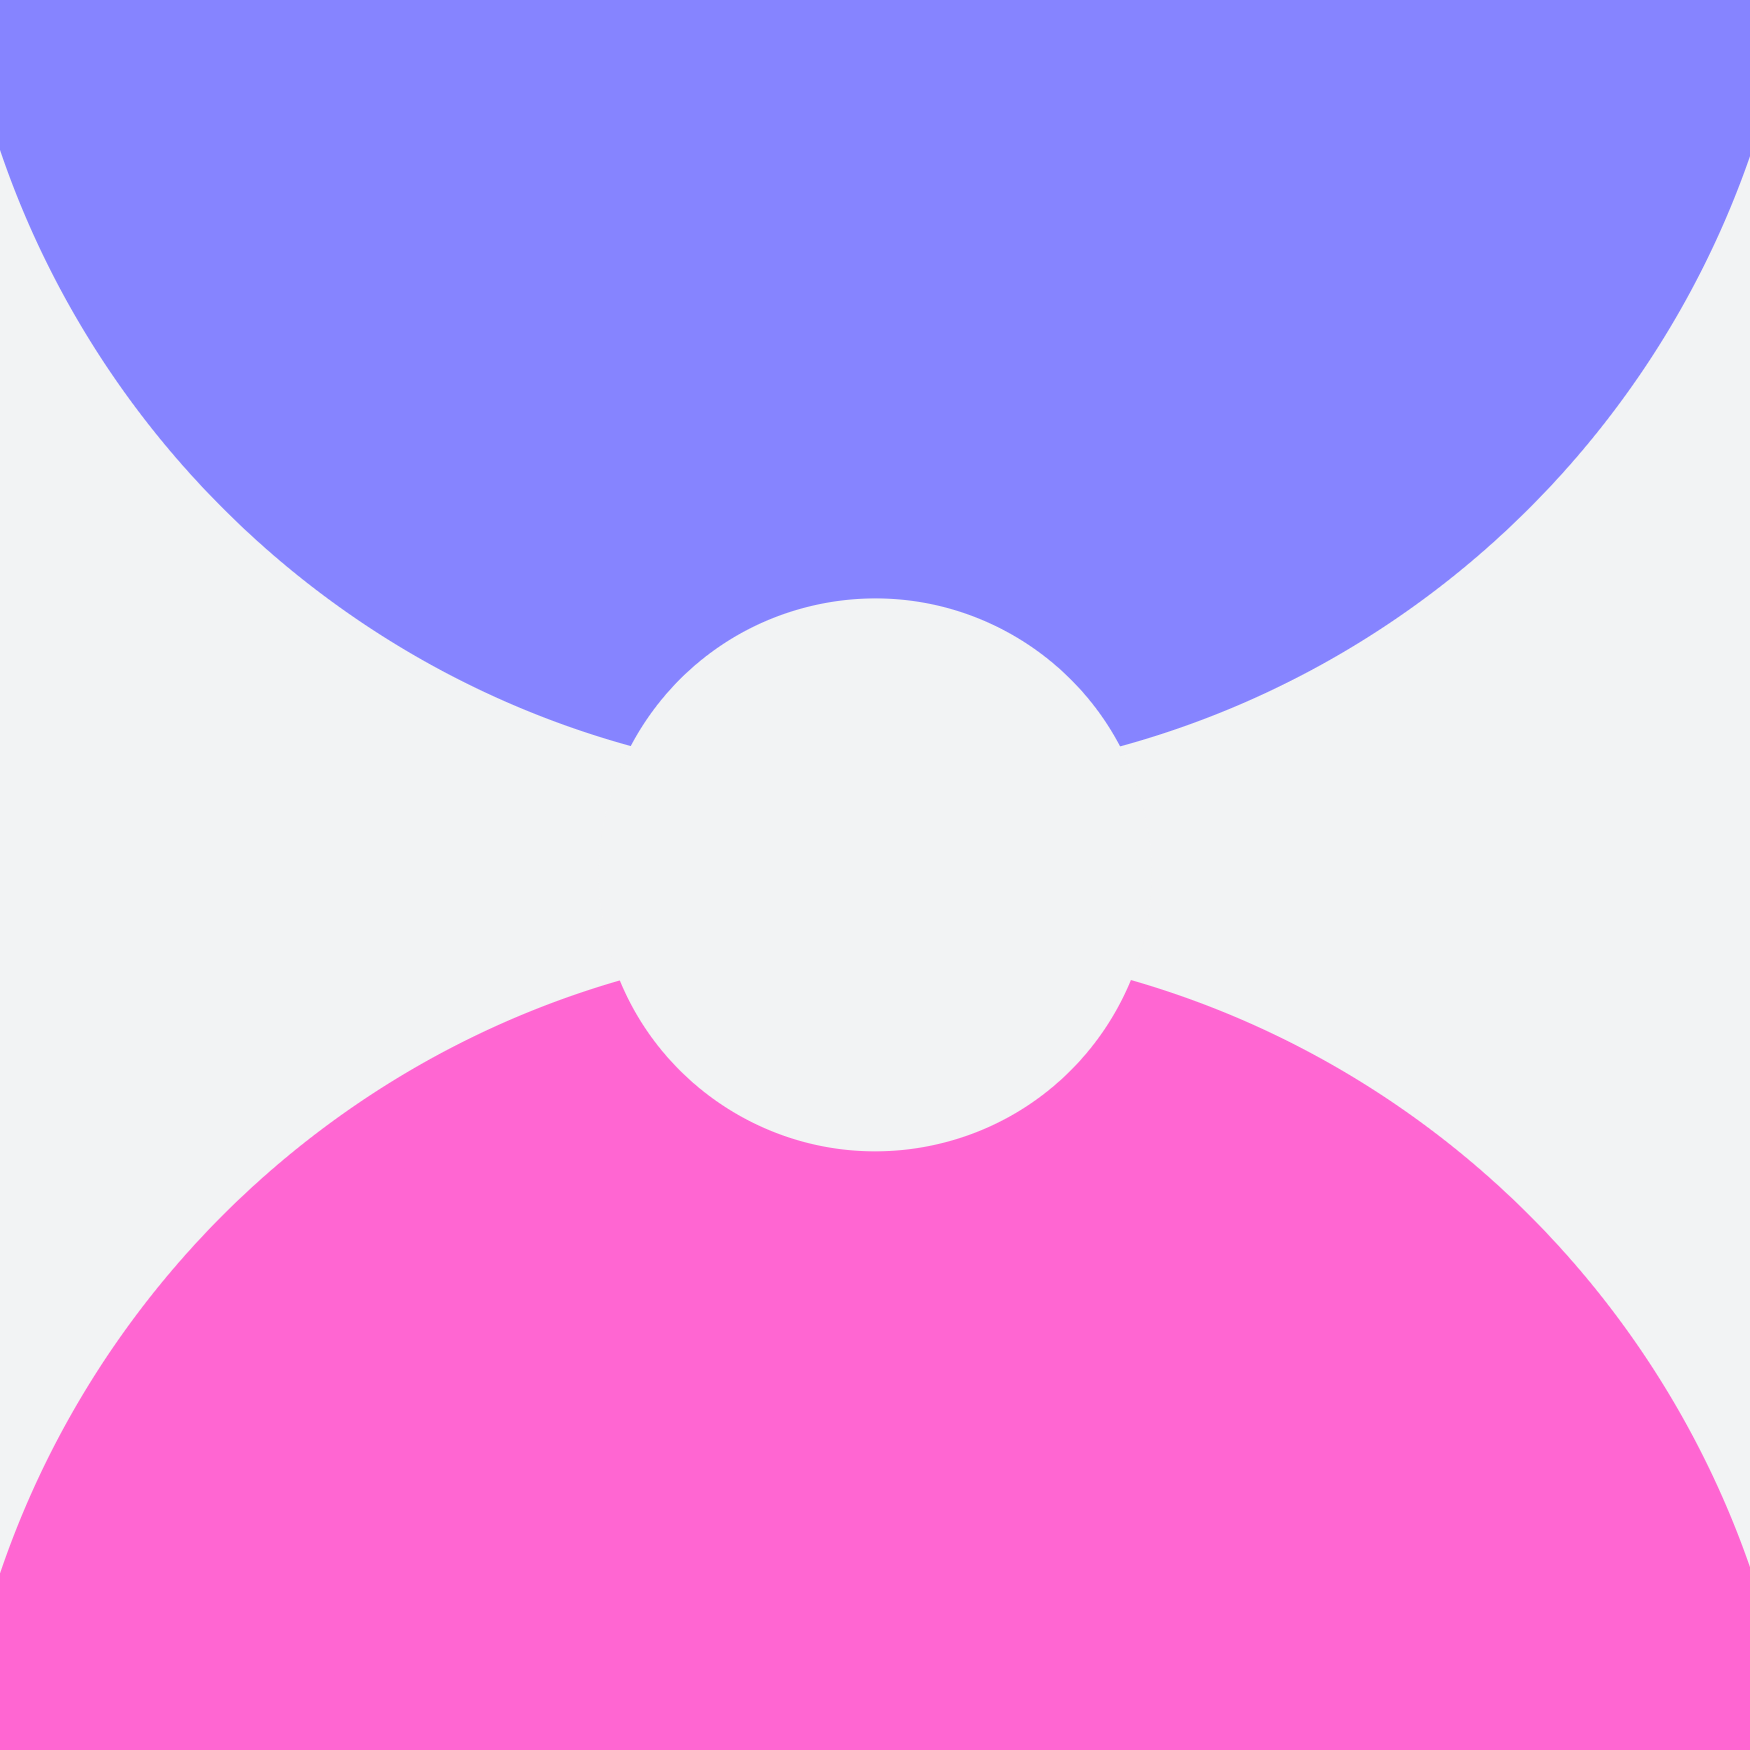
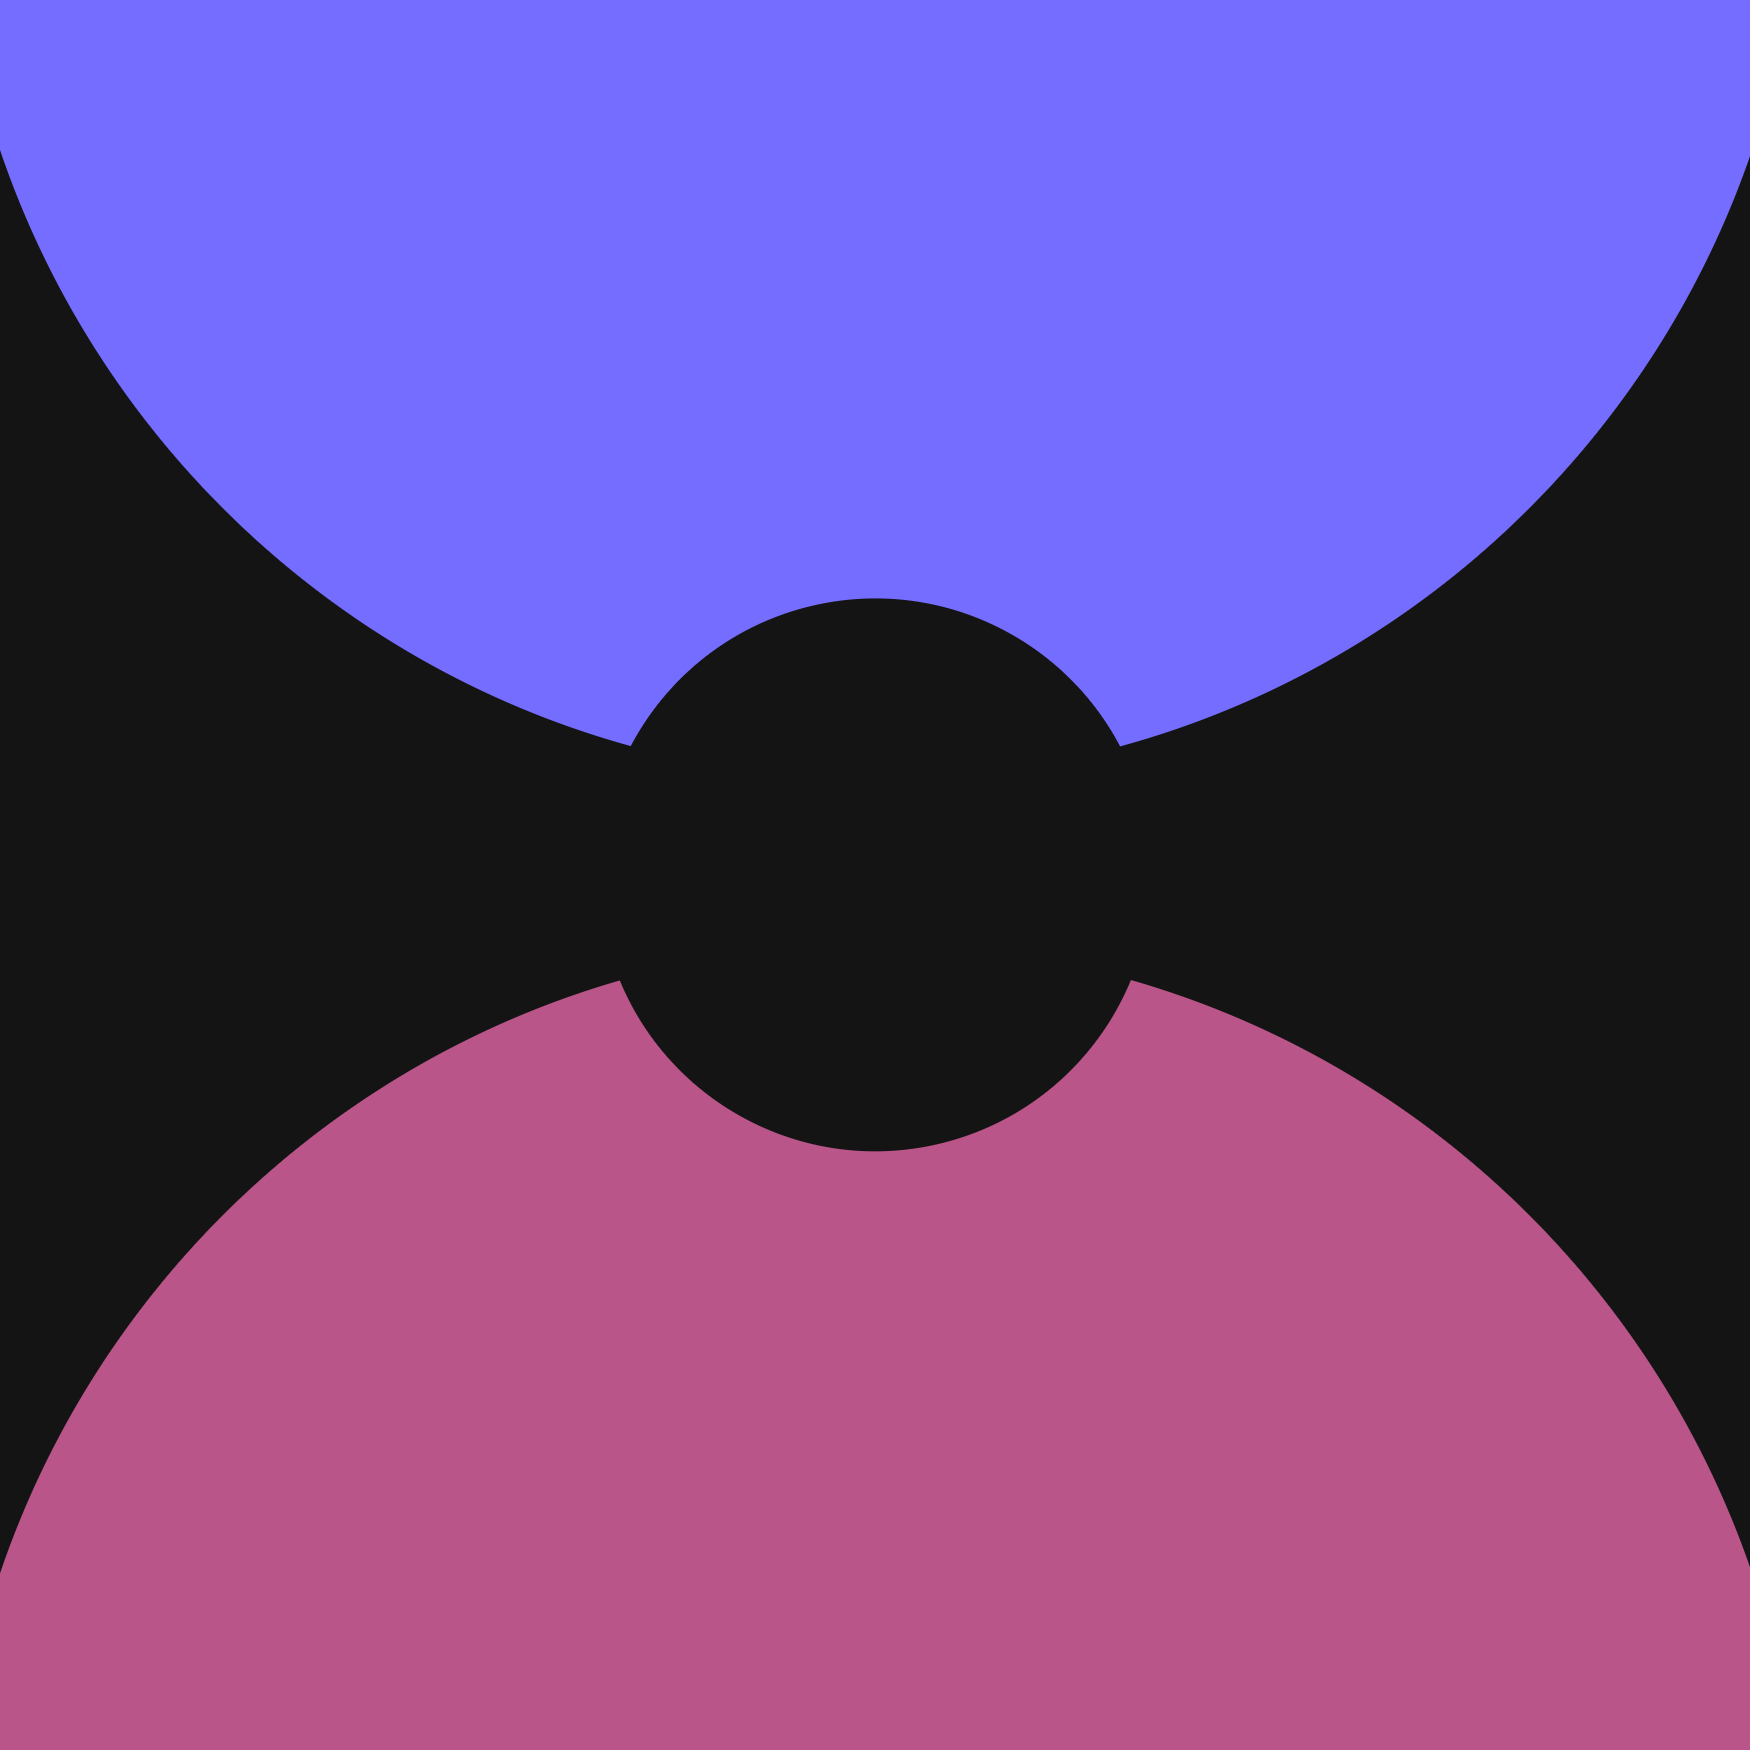
added colors to stdStyles object

diff --git a/src/components/HomeHeader.js b/src/components/HomeHeader.js
@@ -1,6 +1,7 @@
 import React from 'react';
 import styled, { keyframes } from 'styled-components';
 import heroImg from '../images/hero-img.jpg';
+import stdStyles from '../stdStyles';
 
 const HomeHeaderContainer = styled.div``;
 
@@ -50,16 +51,15 @@ const WordsBox = styled.div`
     text-align: center;
     opacity: 0;
     animation: ${moveIn} 0.5s ease-in 0.3s forwards;
+    color: ${stdStyles.colors.secTwo};
 `;
 
 const Words = styled.h1`
     margin-bottom: 0.25rem;
-    color: #ffeaec;
 `;
 
 const SubWords = styled.p`
     margin-top: 0.25rem;
-    color: #ffeaec;
 `;
 
 const HomeHeader = () => {

diff --git a/src/components/StdBtn.js b/src/components/StdBtn.js
@@ -1,4 +1,5 @@
 import styled from 'styled-components';
+import stdStyles from '../stdStyles';
 
 const StdBtn = styled.button`
     cursor: pointer;
@@ -6,9 +7,9 @@ const StdBtn = styled.button`
     width: ${(props) => props.width}rem;
     margin-top: 1rem;
     font-size: 1.1rem;
-    border: 1px solid #273043;
-    color: #273043;
-    background-color: #ffeaec;
+    border: 1px solid ${stdStyles.colors.secOne};
+    color: ${stdStyles.colors.secOne};
+    background-color: ${stdStyles.colors.secTwo};
 `;
 
 export default StdBtn;

diff --git a/src/components/Carousel.js b/src/components/Carousel.js
@@ -1,8 +1,18 @@
 import React from 'react';
 import styled from 'styled-components';
 
+const CarouselContainer = styled.div`
+    width: 90%;
+`;
+
+const Window = styled.div``;
+
 const Carousel = () => {
-    return <></>;
+    return (
+        <CarouselContainer>
+            <Window></Window>
+        </CarouselContainer>
+    );
 };
 
 export default Carousel;

diff --git a/src/components/Navbar.js b/src/components/Navbar.js
@@ -1,5 +1,6 @@
 import React from 'react';
 import styled from 'styled-components';
+import stdStyles from '../stdStyles';
 
 const NavbarContainer = styled.div`
     height: 3.5rem;
@@ -18,7 +19,7 @@ const OptionsHolder = styled.div`
 `;
 
 const NavOption = styled.a`
-    color: #ffeaec;
+    color: ${stdStyles.colors.secTwo};
     font-size: 1.1rem;
 `;
 

diff --git a/src/stdStyles.js b/src/stdStyles.js
@@ -1,4 +1,11 @@
 const stdStyles = {
+    colors: {
+        mainOne: '#8684ff',
+        mainTwo: '#ff66d2',
+        secOne: '#273043',
+        secTwo: '#ffeaec',
+        offWhite: '#f2f3f4',
+    },
     mt: '1.5rem',
     boxShadow:
         'rgba(17, 17, 26, 0.1) 0px 4px 16px, rgba(17, 17, 26, 0.05) 0px 8px 32px;',

diff --git a/src/components/SectionIntro.js b/src/components/SectionIntro.js
@@ -4,10 +4,11 @@ import stdStyles from '../stdStyles';
 
 const IntroContainer = styled.div`
     width: 100%;
-    border-bottom: 3px solid #273043;
+    border-bottom: 3px solid ${stdStyles.colors.secOne};
 `;
 
 const SecTitle = styled.h2`
+    color: ${stdStyles.colors.secTwo};
     padding-left: 2.5rem;
 `;
 

diff --git a/src/components/NameTitle.js b/src/components/NameTitle.js
@@ -1,10 +1,12 @@
 import styled from 'styled-components';
+import stdStyles from '../stdStyles';
 
 const Title = styled.div`
     font-weight: bold;
     font-size: 3rem;
     text-align: center;
     padding: 1rem;
+    color: ${stdStyles.colors.secTwo};
 `;
 
 export default Title;

diff --git a/src/components/Card.js b/src/components/Card.js
@@ -18,7 +18,8 @@ const CardImg = styled.img`
 `;
 
 const WordsHolder = styled.div`
-    background-color: #f2f3f4bf;
+    color: ${stdStyles.colors.secOne};
+    background-color: ${stdStyles.colors.secTwo}d6;
     padding: 1rem;
 `;
 

diff --git a/src/App.css b/src/App.css
@@ -6,5 +6,4 @@ html {
     min-height: 100vh;
 
     font-family: 'Montserrat', sans-serif;
-    color: #273043;
 }
